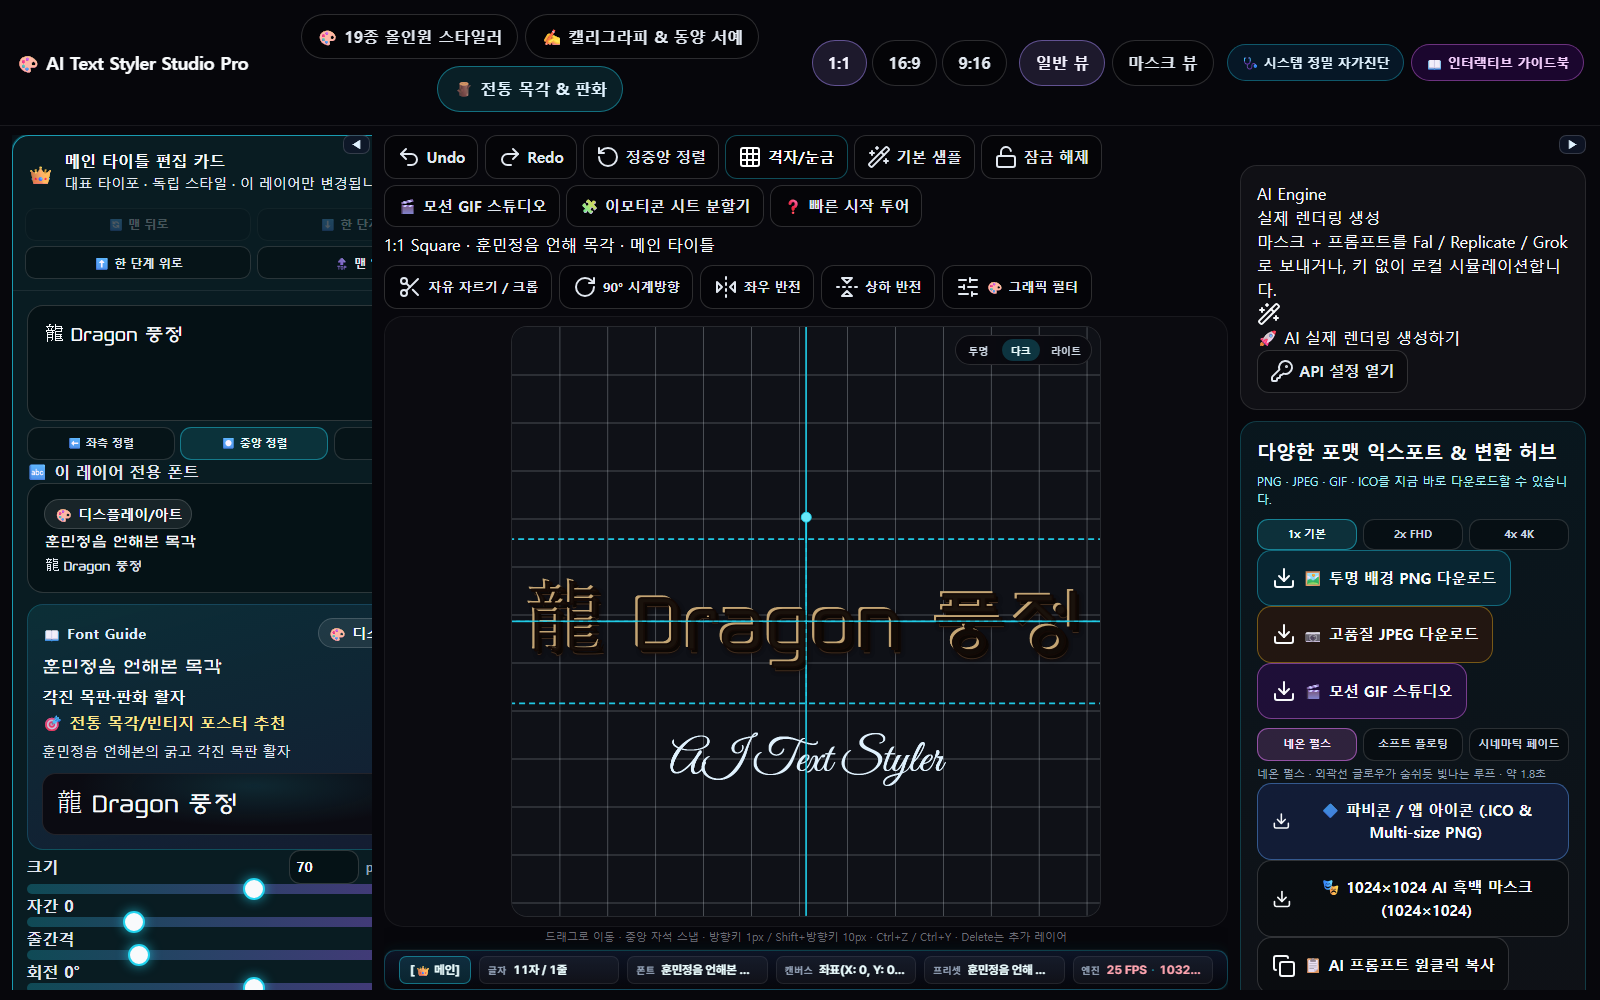
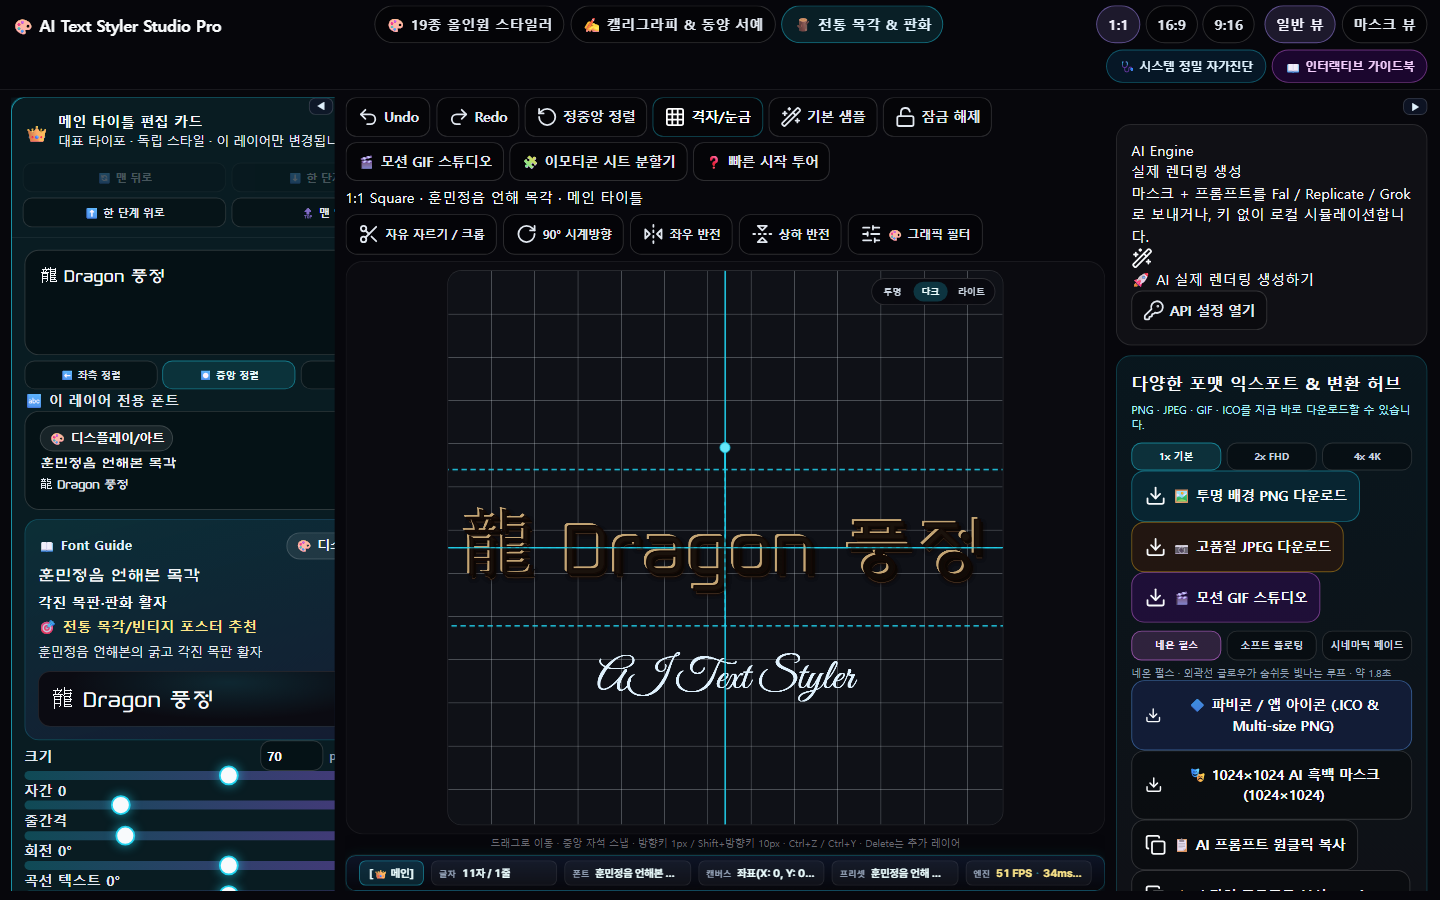
fix: reset to the woodcut factory look on every launch and keep all three studio tabs visible

diff --git a/src/lib/studioModel.js b/src/lib/studioModel.js
@@ -8,7 +8,7 @@ import { defaultViewEdit } from './viewEdit.js'
 
 export const STORAGE_KEY = 'styler-studio-pro-v5'
 export const FACTORY_REV_KEY = 'styler-factory-rev'
-export const FACTORY_REV = '2026.08.29-woodcut-lock'
+export const FACTORY_REV = '2026.08.29-woodcut-boot'
 export const DEFAULT_STUDIO_MAIN_SIZE = FONT_SIZE_MAIN_DEFAULT
 export const DEFAULT_STUDIO_PRESET_ID = 'hunmin-woodcut'
 export const DEFAULT_STUDIO_FONT_ID = 'hunmin'
@@ -176,18 +176,12 @@ function wipeLegacyStudioKeys() {
 
 export function loadStudioState() {
   try {
-    const rev = localStorage.getItem(FACTORY_REV_KEY)
-    if (rev !== FACTORY_REV) {
-      wipeLegacyStudioKeys()
-      localStorage.removeItem(STORAGE_KEY)
-      localStorage.setItem(FACTORY_REV_KEY, FACTORY_REV)
-      const next = defaultStudioState()
-      saveStudioState(next)
-      return next
-    }
-    const raw = localStorage.getItem(STORAGE_KEY)
-    if (!raw) return defaultStudioState()
-    return studioFromParsed(JSON.parse(raw))
+    wipeLegacyStudioKeys()
+    localStorage.removeItem(STORAGE_KEY)
+    localStorage.setItem(FACTORY_REV_KEY, FACTORY_REV)
+    const next = defaultStudioState()
+    saveStudioState(next)
+    return next
   } catch {
     return defaultStudioState()
   }

diff --git a/src/App.jsx b/src/App.jsx
@@ -52,6 +52,7 @@ import {
 import {
   createLayer,
   defaultStudioState,
+  FACTORY_REV,
   loadApiKeys,
   loadStudioState,
   saveApiKeys,
@@ -232,6 +233,10 @@ export default function App() {
   studioRef.current = studio
   leftPanelWidthRef.current = leftPanelWidth
   diagOpenRef.current = diagOpen
+
+  useLayoutEffect(() => {
+    setStudio(defaultStudioState())
+  }, [FACTORY_REV])
 
   useEffect(() => subscribeInspectorHud(setSliceInspectorHud), [])
 
@@ -1152,7 +1157,7 @@ export default function App() {
     <div className={clsx('studio-shell', isResizing && 'is-resizing')} style={{ '--left-panel-width': `${leftPanelWidth}px` }}>
       <div className="pointer-events-none fixed inset-0 bg-[radial-gradient(ellipse_at_top,_rgba(34,211,238,0.08),transparent_45%),radial-gradient(ellipse_at_bottom_right,_rgba(168,85,247,0.08),transparent_40%)]" />
 
-      <header className="app-nav">
+      <header className="app-nav" data-studio-tab={studio.studioTab}>
         <div className="app-nav-inner">
           <h1 className="app-logo">🎨 AI Text Styler Studio Pro</h1>
           <div className="mode-tabs" role="tablist" aria-label="스튜디오 모드">

diff --git a/src/lib/featureRegistry.js b/src/lib/featureRegistry.js
@@ -346,7 +346,7 @@ export const APP_FEATURES_REGISTRY = [
       order: 10,
       title: '📖 챕터 1. 간단 설정 요약 — 폰트·컬러·슬라이더',
       sample: GUIDE_SAMPLES['pungjeong-woodcut'],
-      kicker: '실행 시 공장 리비전이 예전 키치 세션을 지우고 龍 Dragon 풍정 목각 화면을 다시 심습니다. 다크 1:1, 중앙 청록 십자, 격자 ON입니다.',
+      kicker: '브라우저를 열거나 새로고침하면 항상 龍 Dragon 풍정 목각 화면으로 시작합니다. 상단 세 탭이 한 줄에 보이고, 전통 목각 탭이 켜집니다.',
       visuals: [
         { tone: 'layout', chips: ['왼쪽 설정', '|', '중앙 캔버스', '우측 익스포트'], split: true },
       ],

diff --git a/src/index.css b/src/index.css
@@ -897,8 +897,11 @@ body {
 }
 
 .mode-tabs {
-  flex: 1 1 420px;
+  flex: 1 1 auto;
   justify-content: center;
+  flex-wrap: nowrap;
+  overflow-x: auto;
+  min-width: 0;
 }
 
 .view-toggle {
@@ -925,10 +928,12 @@ body {
   border-radius: 999px;
   border: 1px solid rgba(255, 255, 255, 0.16);
   background: rgba(0, 0, 0, 0.28);
-  padding: 0.62rem 0.95rem;
+  padding: 0.5rem 0.75rem;
   font-size: var(--ui-fs-nav);
   font-weight: 700;
   color: var(--ui-muted);
+  white-space: nowrap;
+  flex: 0 0 auto;
   transition: border-color 0.16s ease, background-color 0.16s ease, color 0.16s ease;
 }
 

diff --git a/src/lib/diagnosticChecks.js b/src/lib/diagnosticChecks.js
@@ -610,7 +610,7 @@ export async function checkDragEngine() {
   if (DEFAULT_TEXT !== '龍 Dragon 풍정') {
     return { status: 'error', detail: '기본 문구가 龍 Dragon 풍정과 다릅니다.' }
   }
-  if (!FACTORY_REV || !String(FACTORY_REV).includes('woodcut-lock')) {
+  if (!FACTORY_REV || !String(FACTORY_REV).includes('woodcut-boot')) {
     return { status: 'error', detail: '공장 목각 리비전이 없습니다.' }
   }
   const factory = defaultStudioState()
